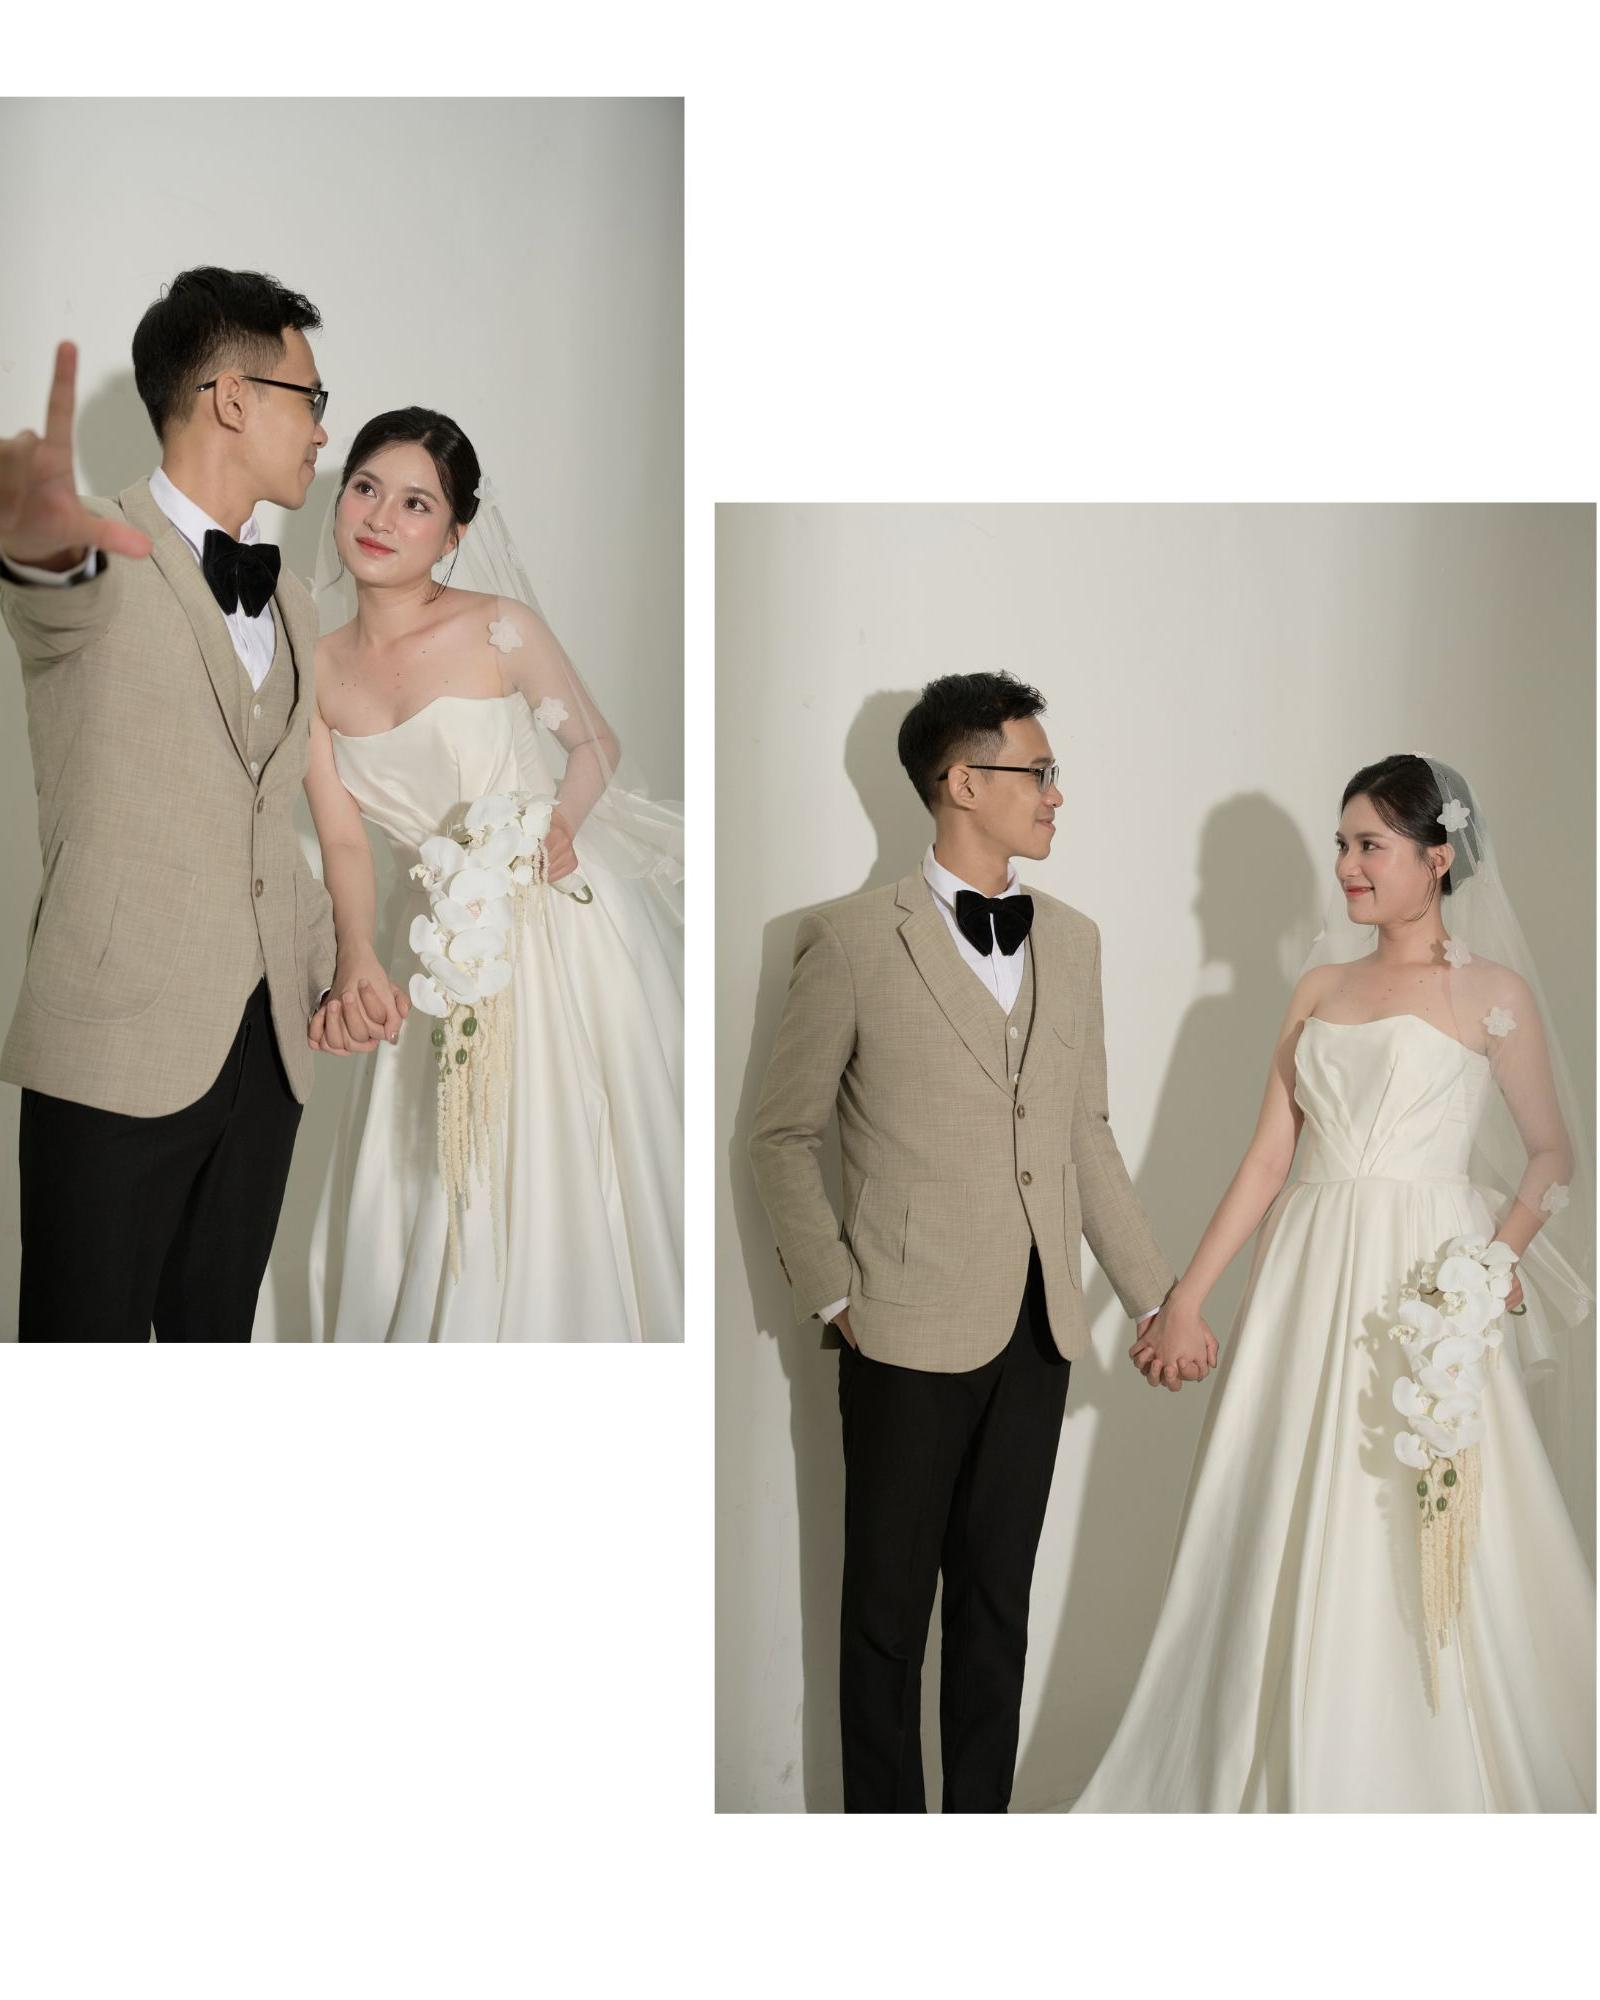
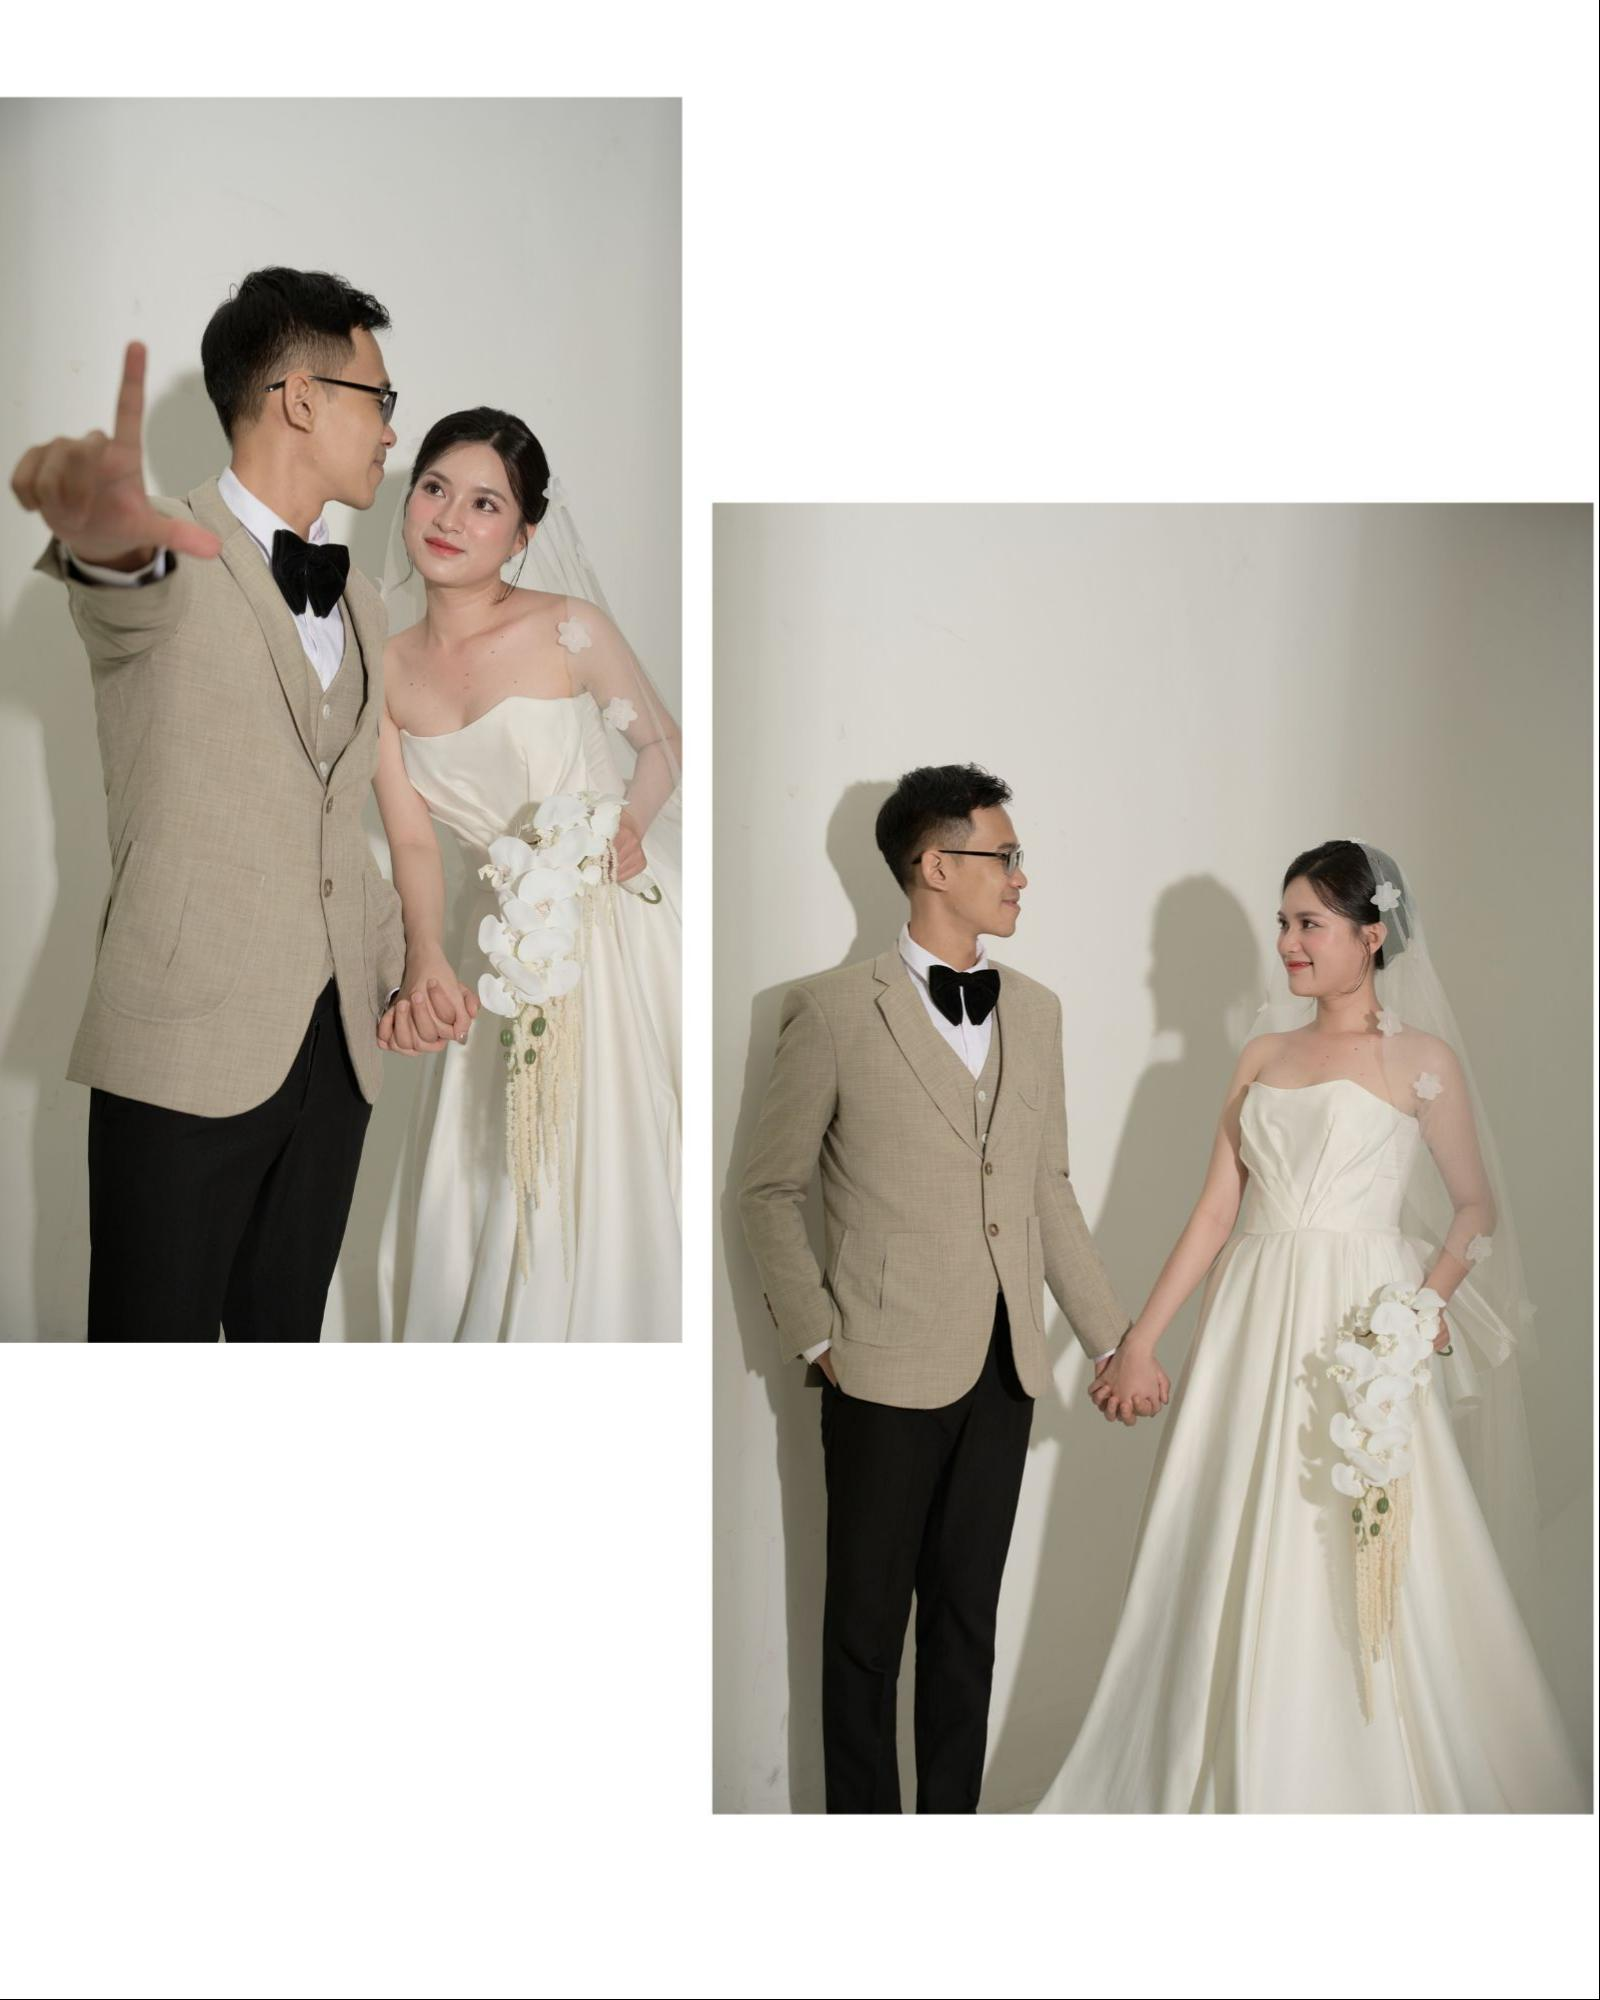
finnal commit

Changed region(s): [[0.0, 0.031, 1.0, 0.93], [0.8438, 0.248, 1.0, 0.31]]

diff --git a/index.html b/index.html
@@ -304,7 +304,7 @@
 
         /* Section Styling */
         .section {
-            padding: 20px 30px;
+            padding: 30px 20px;
             text-align: center;
             background: linear-gradient(135deg, #f8f6f0 0%, #ede9e0 100%);
             backdrop-filter: blur(5px);
@@ -835,7 +835,7 @@
         /* RSVP Section */
         .rsvp-section {
             background: linear-gradient(135deg, #f8f6f0 0%, #ede9e0 100%);
-            padding: 80px 30px;
+            padding: 30px 20px;
             position: relative;
         }
 
@@ -1089,7 +1089,7 @@
             }
 
             .section {
-                padding: 20px 20px;
+                padding: 60px 5px;
             }
 
             .section-title {
@@ -1248,7 +1248,7 @@
 
             /* RSVP responsive */
             .rsvp-section {
-                padding: 60px 20px;
+                padding: 60px 5px;
             }
 
             .rsvp-container {
@@ -1474,7 +1474,7 @@
         /* Luxury Invitation Styling */
         .luxury-invitation {
             background: linear-gradient(135deg, #f8f6f0 0%, #ede9e0 100%);
-            padding: 10px 30px;
+            padding: 30px 20px;
             position: relative;
         }
 
@@ -1654,7 +1654,7 @@
         /* Event Details Styling */
         .event-details-section {
             background: linear-gradient(135deg, #f8f6f0 0%, #ede9e0 100%);
-            padding: 30px 30px;
+            padding: 30px 20px;
             position: relative;
         }
 
@@ -1925,7 +1925,7 @@
             }
 
             .event-details-section {
-                padding: 60px 20px;
+                padding: 20px 5px;
             }
 
             .calendar-overlay {
@@ -1959,7 +1959,7 @@
         /* Our Story Section */
         .our-story-section {
             background: linear-gradient(135deg, #fdf8f3 0%, #f5f2ec 100%);
-            padding: 80px 30px;
+            padding: 30px 20px;
             position: relative;
         }
 
@@ -2167,7 +2167,7 @@
         /* Responsive for Our Story */
         @media (max-width: 900px) {
             .our-story-section {
-                padding: 60px 20px;
+                padding: 60px 5px;
             }
 
             .story-timeline {
@@ -2446,7 +2446,7 @@
 
         .image-reveal.visible {
             opacity: 1;
-            transform: scale(1);
+            transform: scale(0.99);
         }
 
         /* Mobile responsive */
@@ -2509,13 +2509,13 @@
             </div>
         </section>
         <div class="story-caption-section" style="padding: 10px;">
-            <p> WEDDING INVITATION 22 • 03 • 2026 </p>
+            <p> •WEDDING INVITATION• </p>
         </div>
         <div class="story-caption-section" style="padding: 2px;">
             <p>Mọi thứ đều đã sẵn sàng cho ngày trọng đại này.</p>
         </div>
         <!-- Welcome Section -->
-        <section class="section">
+        <section class="section event-details-section">
             <div class="story-container" style="margin-top: -1px;">
                 <!-- Image 1 - First Meeting -->
                 <div class="story-hero" style="margin-top: 0; width: 100%;">
